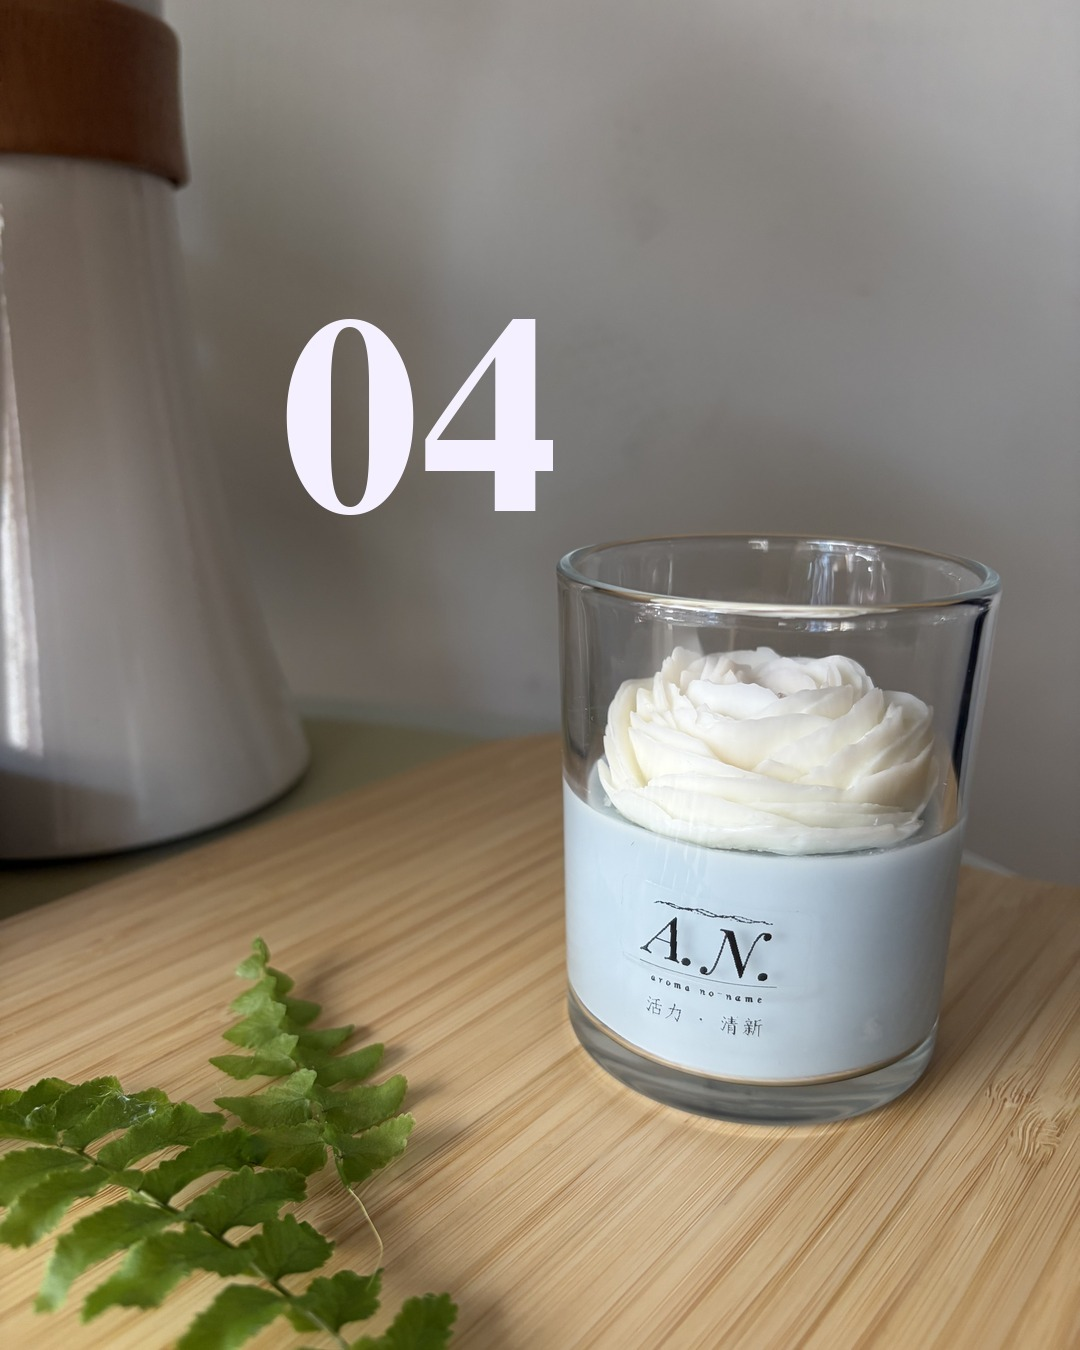
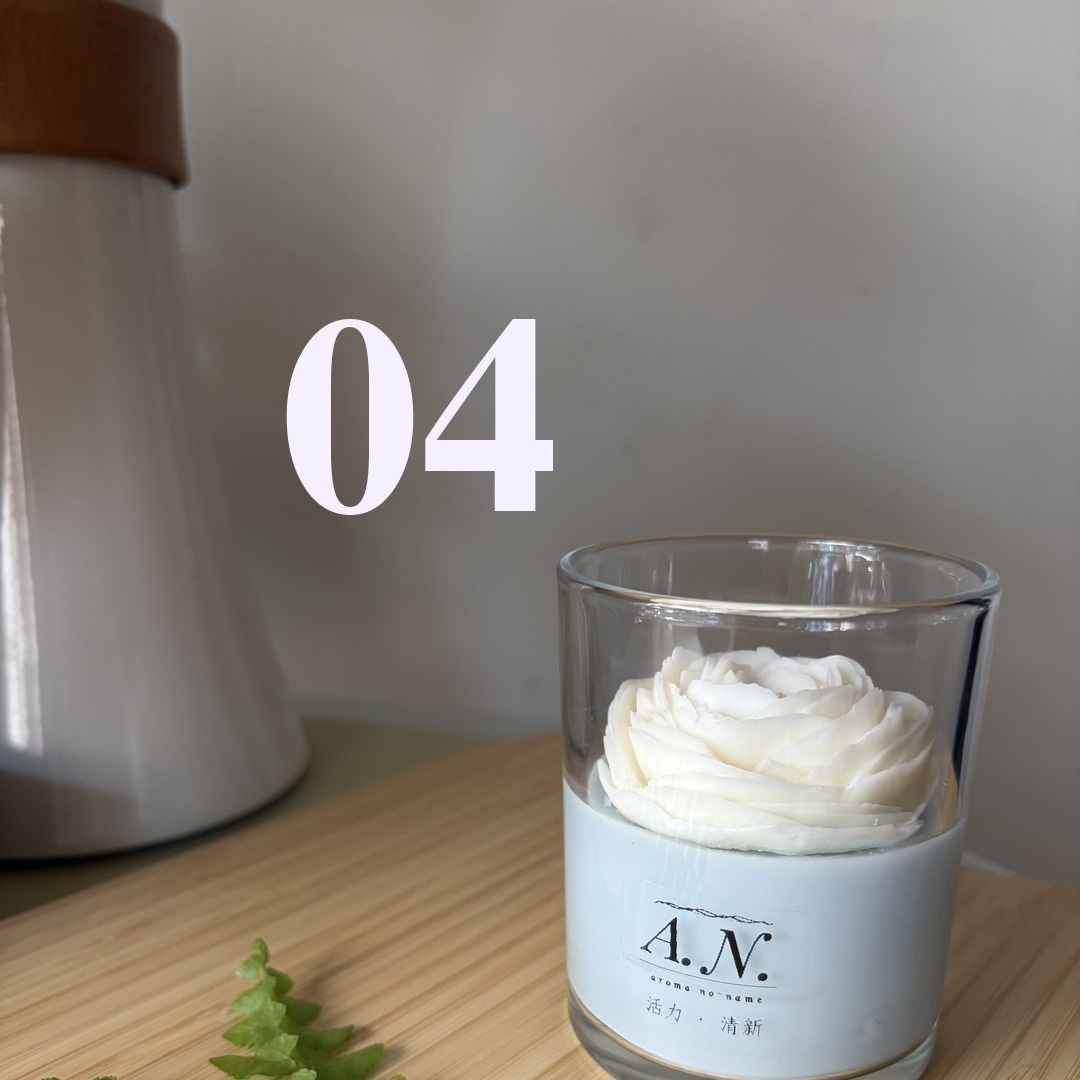
Add files via upload

diff --git a/04.html b/04.html
@@ -145,8 +145,10 @@
     <p class="text-body reveal">冬天的早晨，空氣是冷的，但光是乾淨的。睜開眼，世界很安靜，身體卻慢慢醒過來。不是熱鬧的那種有活力，是冷空氣裡那種清醒、輕盈、剛剛好的活著。</p>
   </div>
 
-  <!-- 照片2 主視覺滿版 -->
-  <img class="photo-full reveal" src="04_p2.jpg" alt="04 主視覺">
+  <!-- 照片2 主視覺正方形 -->
+  <div class="photo-contained reveal">
+    <img src="04_p2.jpg" alt="04 主視覺">
+  </div>
 
   <div class="scent-flow" style="padding-top: 5rem;">
     <p class="scent-body reveal">從一顆剛剝開的柳橙果香開始，中段轉進北歐森林的冷冽，最後落在木質沉穩的骨架裡。</p>